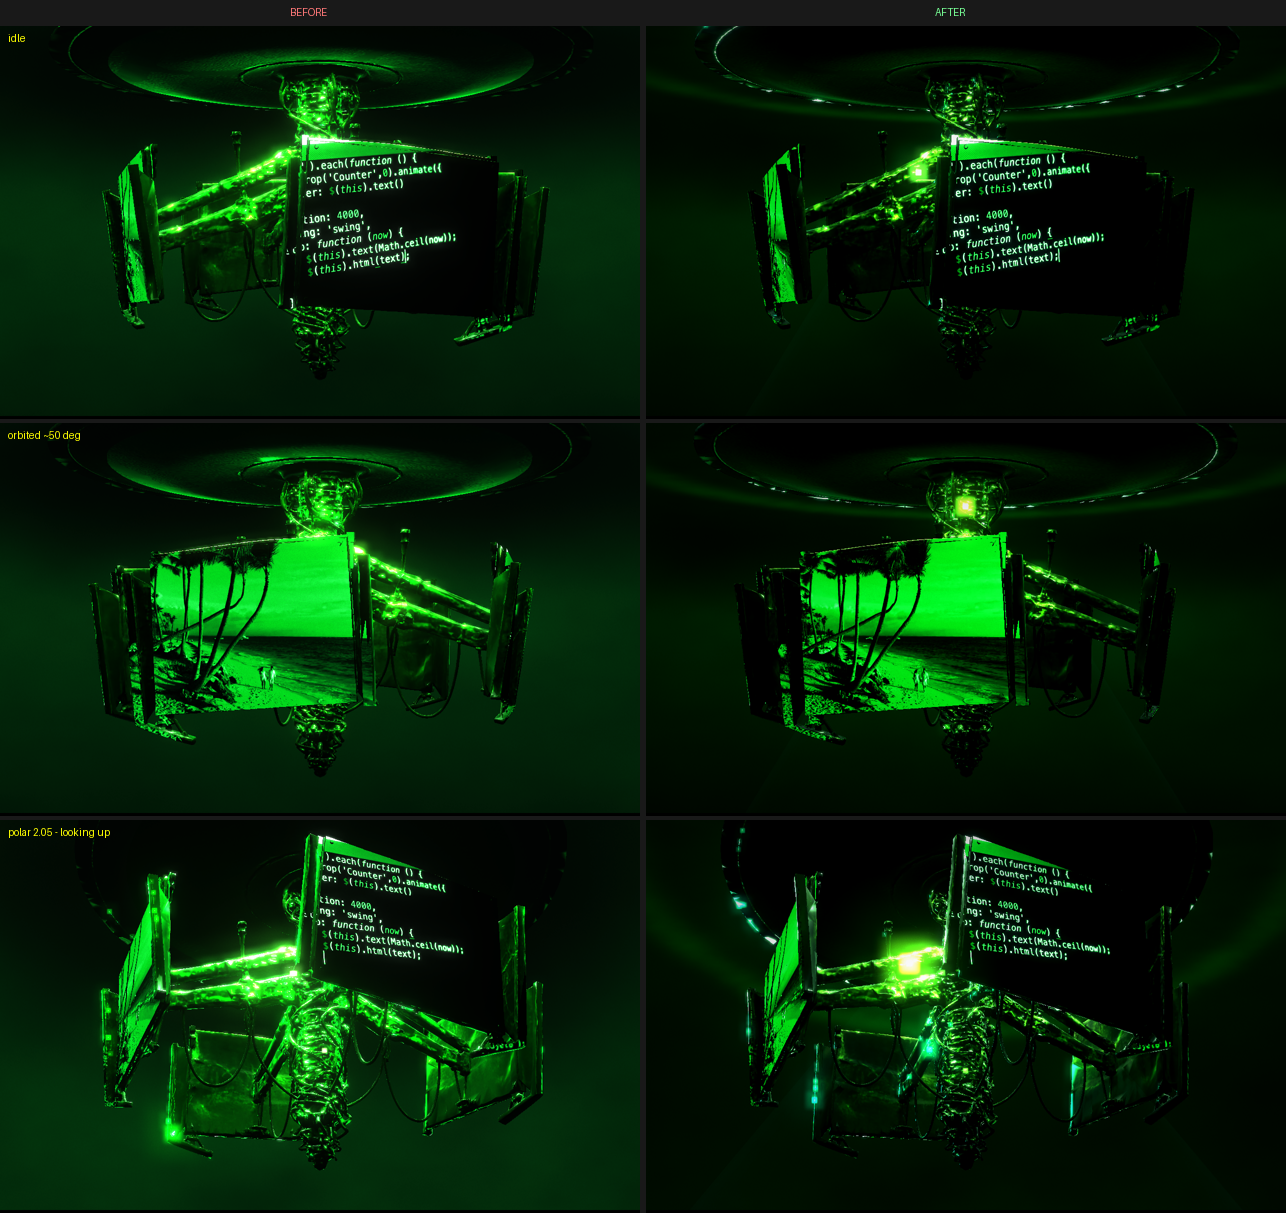
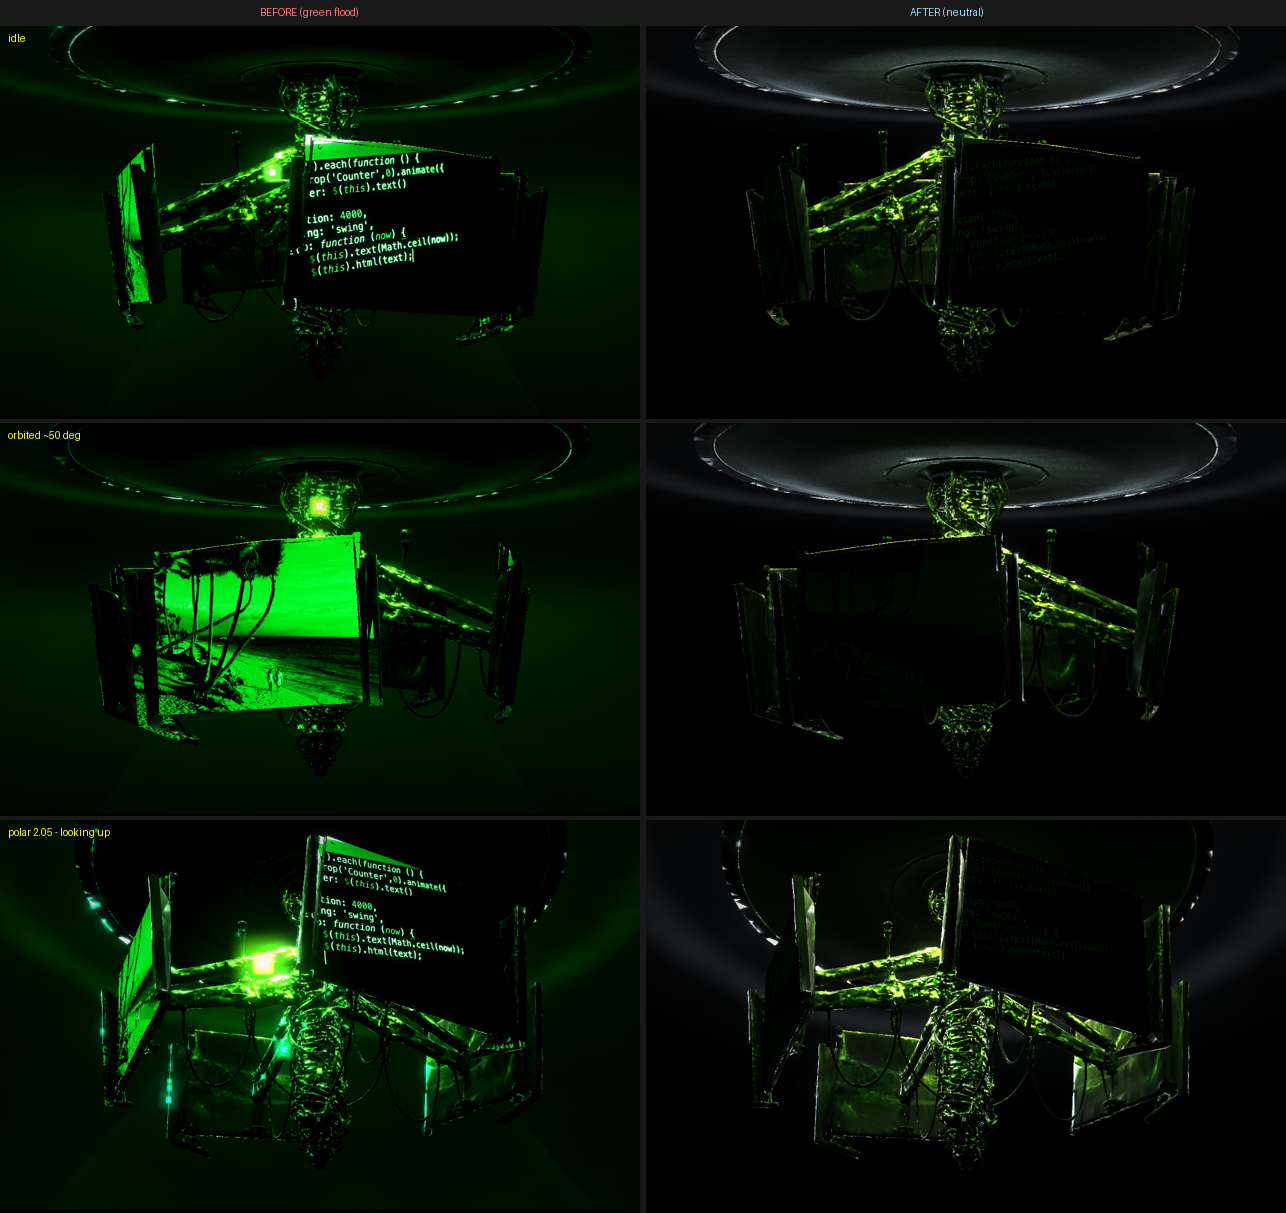
Neutral scene; green lives only in the model's material
Green was being applied in 13 places, only one of which was the model: all four
lights, scene.fog, the backdrop shell, the PMREM env shell, the ceiling dome,
the light shaft, the screen grade, the emissive injection and the grade pass's
split-tone. With a green key on a green material every highlight came back
saturated green, which is why the glass never read as glass.

All of it is neutral now. Lights white (ambient 0x2a2e33 0.42, key 0xfff6ec,
rim 0xdfe9ff 1.25, fill 0xffffff 0.32), fog 0x0e1013 @ 0.055, backdrop
0x0a0b0c -> 0x1a1c1e, ceiling pool 0xd8e2ea, shaft white @ 0.007, grade
split-tone near-neutral @ 0.14, bloom 0.20/0.14/0.90.

Emissive injection deleted -- it was a forced green multiply on top of the
GLB's own PBR.

Env shell is deliberately much brighter than the visible backdrop
(0x24282c -> 0xc2ccd4). It is never drawn, only feeds PMREM; a near-mirror
matched to a dim background has nothing to reflect and goes black.
ENV_INTENSITY 2.5 -> 3.4.

Screens: SCREEN_GAIN 0.26 and ramp drive 1.15 -> 0.62. The drive was the real
culprit -- mid luminance was landing at the top of the tier ramp, so every clip
resolved to flat bright green.

Exposure 0.78 -> 0.95 and GRADE_PIVOT 0.28 -> 0.16: the neutral lights deliver
far less than the green ones did, and the high pivot was crushing the grey
backdrop to black.

No geometry, positions, camera or scroll behaviour touched.

diff --git a/js/hero.js b/js/hero.js
@@ -19,12 +19,16 @@ const ASSETS = window.HERO_ASSETS || {};
 const FINAL = ASSETS.finalDir || 'assets-final/';
 const PLACE = ASSETS.placeholderDir || 'placeholders/';
 
-/* §2 green token system, mirrored into the WebGL side */
-const ACCENT = 0x19e65a;          /* signal accent, floor lines + ring */
-const HOT_CORE = 0xb8ffcc;        /* mint-white hot tier, ring core    */
-const RIM = 0x4dff7a;             /* rim light   (was 0xff4d4d)        */
-const FILL = 0x1aff5e;            /* fill light  (was 0xff1a1a)        */
-const AMBIENT = 0x405a4a;         /* cool green-grey (was 0x404060)    */
+/* PALETTE — neutral.
+   The scene used to tint everything green: lights, fog, backdrop, ceiling, the
+   env map and the screen grade all carried the §2 accent. The result was a
+   colour filter over the viewport rather than a lit object — one hue at one
+   value, and highlights that came back saturated green so the glass never read
+   as glass. Green now comes from exactly one place: the model's own basecolor.
+   Everything that lights it or sits behind it is neutral, so a specular
+   highlight returns white and the material can show its own colour. */
+const NEUTRAL_HI  = 0x1a1c1e;     /* background gradient, light end */
+const NEUTRAL_LO  = 0x0a0b0c;     /* background gradient, dark end  */
 
 /* --------------------------------------------------- RIG NORMALISATION
    Tunables for fitting assets-final/hero-rig.glb into the scene. The model is
@@ -43,7 +47,7 @@ const CEILING_Y       = 0.62;   /* mount plane: the model's bbox top lands exact
    rim) which is the whole reason it is not a flat plane. */
 const CEILING_R       = 70.0;   /* dome radius — flat where the rig mounts, curved at the edges */
 const CEILING_ARC     = 0.145;  /* radians of cap; rim lands at r ~10.1 */
-const FOG_DENSITY     = 0.085;  /* FogExp2; depth separation without hiding the rig */
+const FOG_DENSITY     = 0.055;  /* FogExp2; depth separation without hiding the rig */
 /* height of the dome surface at a given horizontal radius */
 const domeYatRadius = r => CEILING_Y - CEILING_R + Math.sqrt(Math.max(0, CEILING_R * CEILING_R - r * r));
 /* The orbit target is lifted to the machine's own centre and the camera is set
@@ -95,7 +99,7 @@ renderer.setSize(container.clientWidth, container.clientHeight);
    so the §2 palette lands exactly where it did before. */
 renderer.outputColorSpace = THREE.SRGBColorSpace;
 renderer.toneMapping = THREE.ACESFilmicToneMapping;
-renderer.toneMappingExposure = 0.78;   /* down from 1.0 — lets the model read as material, not a flat cutout */
+renderer.toneMappingExposure = 0.95;   /* raised back from 0.78: neutral lights deliver far less than green ones did */
 container.appendChild(renderer.domElement);
 
 /* ---------------------------------------------------------------- LIGHTS
@@ -112,14 +116,18 @@ container.appendChild(renderer.domElement);
                              instead of washing it from the side
                     fill     0.80 -> 0.10 (all but killed — it was the main
                              cause of the even, formless lighting)
-                    rim      1.20 -> 1.70, re-hued from accent-green to cool
-                             teal so the silhouette separates from a green
-                             background instead of blending into it            */
-const SHADOW_TEAL = 0x0d3330;     /* shadows bias cool, never accent-green */
-const KEY_TINT    = 0xdaffe9;     /* mint-white, the §2 hot tier            */
-const RIM_TEAL    = 0x35e8c4;     /* cool separator against the green haze   */
+                    rim      1.20 -> 1.25, and now WHITE — a green rim on a
+                             green model just deepened the single-hue problem  */
+/* White lights, not green ones. A green key on a green material multiplies to
+   a flat saturated green with no specular life; a white key lets the basecolor
+   supply the hue and the highlight come back near-white, which is the whole
+   difference between "tinted" and "wet glass". */
+const SHADOW_TONE = 0x2a2e33;     /* neutral, very slightly cool */
+const KEY_TINT    = 0xfff6ec;     /* white, a hair warm          */
+const RIM_TONE    = 0xdfe9ff;     /* white, a hair cool          */
+const FILL_TONE   = 0xffffff;
 
-scene.add(new THREE.AmbientLight(SHADOW_TEAL, 0.05));
+scene.add(new THREE.AmbientLight(SHADOW_TONE, 0.42));
 
 /* motivated key: it lives AT the mount and points down the machine */
 /* Sits ABOVE the ceiling, not at the mount. With decay 2 a spot placed level
@@ -136,12 +144,12 @@ spotLight.distance = 11;
 scene.add(spotLight, spotLight.target);
 
 /* rim, opposite the idle camera, to lift the silhouette off the haze */
-const rimLight = new THREE.DirectionalLight(RIM_TEAL, 1.7);
+const rimLight = new THREE.DirectionalLight(RIM_TONE, 1.25);
 rimLight.position.set(2.6, 1.3, 2.2);
 scene.add(rimLight);
 
 /* what is left of the fill — just enough that the shadow side is not a hole */
-const fillLight = new THREE.DirectionalLight(FILL, 0.10);
+const fillLight = new THREE.DirectionalLight(FILL_TONE, 0.32);
 fillLight.position.set(-2.2, 0.4, 1.8);
 scene.add(fillLight);
 
@@ -168,14 +176,14 @@ const NOISE_GLSL = `
     return v;
   }`;
 
-scene.fog = new THREE.FogExp2(0x04160c, FOG_DENSITY);
+scene.fog = new THREE.FogExp2(0x0e1013, FOG_DENSITY);   /* neutral grey, no hue */
 {
   const backdrop = new THREE.Mesh(
     new THREE.SphereGeometry(22, 32, 24),
     new THREE.ShaderMaterial({
       side: THREE.BackSide, depthWrite: false,
-      uniforms: { uDeep: { value: new THREE.Color(0x03100a) },
-                  uHaze: { value: new THREE.Color(0x2fbf63) } },
+      uniforms: { uDeep: { value: new THREE.Color(NEUTRAL_LO) },
+                  uHaze: { value: new THREE.Color(NEUTRAL_HI) } },
       vertexShader: `varying vec3 vP;
         void main(){ vP = normalize(position); gl_Position = projectionMatrix * modelViewMatrix * vec4(position,1.0); }`,
       fragmentShader: `uniform vec3 uDeep; uniform vec3 uHaze; varying vec3 vP;
@@ -186,8 +194,10 @@ scene.fog = new THREE.FogExp2(0x04160c, FOG_DENSITY);
           /* a soft bloom of light behind the machine, so it sits IN the haze
              rather than in front of a flat wall of it */
           float core = pow(1.0 - clamp(abs(vP.y) * 1.35, 0.0, 1.0), 2.0);
-          float a = band * (0.30 + 0.70 * drift) + core * 0.34 * (0.5 + 0.5 * drift);
-          gl_FragColor = vec4(mix(uDeep, uHaze, clamp(a, 0.0, 1.0) * 0.55), 1.0);
+          /* biased so the upper-centre actually reaches uHaze — the gradient has
+             to be visible as a gradient, not collapse to the dark end */
+          float a = band * (0.55 + 0.45 * drift) + core * 0.55 * (0.5 + 0.5 * drift);
+          gl_FragColor = vec4(mix(uDeep, uHaze, clamp(a, 0.0, 1.0)), 1.0);
         }`
     })
   );
@@ -215,24 +225,28 @@ scene.fog = new THREE.FogExp2(0x04160c, FOG_DENSITY);
    sampling the env's bright upper hemisphere across its whole face and blowing
    out to a flat green disc. At 2.5 it reads as dark metal with a hot rim, which
    is what gives the top of the frame any form at all. */
-const ENV_INTENSITY = 2.5;
-const EMISSIVE_GAIN = 1.1;     /* how hot the self-lit veins burn */
-const EMISSIVE_GATE = 6.0;     /* higher = only the brightest texture areas glow */
+const ENV_INTENSITY = 3.4;
 {
   const envScene = new THREE.Scene();
   const shell = new THREE.Mesh(
     new THREE.SphereGeometry(12, 32, 24),
     new THREE.ShaderMaterial({
       side: THREE.BackSide,
-      uniforms: { uDeep: { value: new THREE.Color(0x03100a) },
-                  uHaze: { value: new THREE.Color(0x2fbf63) },
-                  uCool: { value: new THREE.Color(0x0e3f4a) } },
+      /* Deliberately far brighter than the visible backdrop. This shell is never
+         drawn — it only feeds PMREM. A near-mirror reflects the environment and
+         almost nothing else, so if the env matches the dim background the metal
+         has nothing to return and goes black. A studio softbox is much brighter
+         than the wall behind the subject; same idea. */
+      uniforms: { uDeep: { value: new THREE.Color(0x24282c) },
+                  uHaze: { value: new THREE.Color(0xc2ccd4) },
+                  uCool: { value: new THREE.Color(0x4a5158) } },
       vertexShader: `varying vec3 vP;
         void main(){ vP = normalize(position); gl_Position = projectionMatrix * modelViewMatrix * vec4(position,1.0); }`,
       fragmentShader: `uniform vec3 uDeep; uniform vec3 uHaze; uniform vec3 uCool; varying vec3 vP;
         void main(){
-          /* same vertical structure as the backdrop, with a cool floor so the
-             underside of the metal picks up teal instead of more green */
+          /* same vertical structure as the backdrop. Neutral throughout: this
+             is what the metal reflects, so any hue here would come straight
+             back as a tinted highlight and kill the glass read. */
           float up = smoothstep(-0.85, 0.85, vP.y);
           vec3 c = mix(mix(uCool, uDeep, smoothstep(-1.0, -0.1, vP.y)), uHaze * 0.62, up);
           gl_FragColor = vec4(c, 1.0);
@@ -276,8 +290,8 @@ const EMISSIVE_GATE = 6.0;     /* higher = only the brightest texture areas glow
     new THREE.SphereGeometry(CEILING_R, 64, 24, 0, Math.PI * 2, 0, CEILING_ARC),
     new THREE.ShaderMaterial({
       side: THREE.DoubleSide, transparent: true, depthWrite: false, fog: false,
-      uniforms: { uCol: { value: new THREE.Color(ACCENT) },
-                  uBase: { value: new THREE.Color(0x0e1b13) },
+      uniforms: { uCol: { value: new THREE.Color(0xd8e2ea) },
+                  uBase: { value: new THREE.Color(0x121417) },
                   uCanopyR: { value: CANOPY_R } },
       vertexShader: `varying float vR; varying vec3 vL;
         void main(){
@@ -296,7 +310,7 @@ const EMISSIVE_GATE = 6.0;     /* higher = only the brightest texture areas glow
           float halo = 1.0 - smoothstep(0.0, uCanopyR * 0.16, abs(vR - uCanopyR));
           float slab = 1.0 - smoothstep(uCanopyR * 1.6, uCanopyR * 5.5, vR);
           float grain = 0.6 + 0.4 * fbm(vec2(atan(vL.z, vL.x) * 3.0, vR * 1.1) * 2.6);
-          vec3 col = uBase + uCol * (0.16 * pool + 0.20 * halo) * grain;
+          vec3 col = uBase + uCol * (0.10 * pool + 0.13 * halo) * grain;
           gl_FragColor = vec4(col, clamp(slab * 0.55 + pool * 0.30 + halo * 0.45, 0.0, 1.0));
         }`
     })
@@ -314,14 +328,14 @@ const EMISSIVE_GATE = 6.0;     /* higher = only the brightest texture areas glow
    gone too far. It is what stops the key light from being invisible: without
    something in the air to catch it, a spot in a dark room only shows where it
    lands, never that it travelled. */
-const SHAFT_OPACITY = 0.020;
+const SHAFT_OPACITY = 0.007;   /* cut hard: against a neutral background the cone started reading as a wedge */
 {
   const shaft = new THREE.Mesh(
     new THREE.ConeGeometry(1.75, 2.9, 48, 1, true),
     new THREE.ShaderMaterial({
       transparent: true, depthWrite: false, side: THREE.DoubleSide,
       blending: THREE.AdditiveBlending, fog: false,
-      uniforms: { uCol: { value: new THREE.Color(KEY_TINT) }, uOp: { value: SHAFT_OPACITY } },
+      uniforms: { uCol: { value: new THREE.Color(0xffffff) }, uOp: { value: SHAFT_OPACITY } },
       vertexShader: `varying vec2 vUv; varying vec3 vN;
         void main(){ vUv = uv; vN = normalize(normalMatrix * normal);
           gl_Position = projectionMatrix * modelViewMatrix * vec4(position,1.0); }`,
@@ -374,20 +388,27 @@ const GREEN_RAMP = `
 /* Screen footage is graded onto the §2 tiers so arbitrary stock clips still
    leave green as the only hue in the viewport. Set HERO_ASSETS.screenGrade
    to 0 for raw footage colour. */
+/* SCREEN_GAIN is what stops the panels leading the frame. They were rendering
+   at full value and dominating everything; they are panels in a dark room, not
+   light sources. The ramp drive is pulled down too (1.15 -> 0.62) so mid
+   luminance lands in the ramp's dark tiers instead of at the top — that top-end
+   landing was what crushed every clip to the same flat bright green. */
+const SCREEN_GAIN = { value: 0.26 };
 const uGrade = { value: ASSETS.screenGrade ?? 1 };
 function screenMaterial(tex) {
-  /* fog:false — the screens are emissive panels, and hazing them would eat the
-     contrast that makes the on-screen text readable */
+  /* fog:false — hazing the panels would eat the contrast that keeps their
+     content legible at this brightness */
   const m = new THREE.MeshBasicMaterial({ map: tex, side: THREE.DoubleSide, toneMapped: false, fog: false });
   m.onBeforeCompile = shader => {
     shader.uniforms.uGrade = uGrade;
-    shader.fragmentShader = `uniform float uGrade;\n${GREEN_RAMP}\n` + shader.fragmentShader.replace(
+    shader.uniforms.uGain = SCREEN_GAIN;
+    shader.fragmentShader = `uniform float uGrade; uniform float uGain;\n${GREEN_RAMP}\n` + shader.fragmentShader.replace(
       '#include <map_fragment>',
       `#include <map_fragment>
        {
          float l = pow(clamp(dot(diffuseColor.rgb, vec3(0.2126,0.7152,0.0722)), 0.0, 1.0), 1.0 / 2.2);
-         vec3 graded = pow(greenRamp(clamp(l * 1.15, 0.0, 1.0)), vec3(2.2));
-         diffuseColor.rgb = mix(diffuseColor.rgb, graded, uGrade);
+         vec3 graded = pow(greenRamp(clamp(l * 0.62, 0.0, 1.0)), vec3(2.2));
+         diffuseColor.rgb = mix(diffuseColor.rgb, graded, uGrade) * uGain;
        }`
     );
   };
@@ -614,25 +635,16 @@ new GLTFLoader().setMeshoptDecoder(MeshoptDecoder).load(
        of "green statue". There is no separate emissive map, so the brightest
        parts of the basecolor become the emitter: luminance raised to a power so
        only the top of the range survives, then pushed through the §2 accent.
-       EMISSIVE_GAIN scales it, EMISSIVE_GATE decides how selective it is. */
+       (Removed — see the note at the material below.) */
     const maxAniso = renderer.capabilities.getMaxAnisotropy();
     let glbMesh = null;
     model.traverse(o => {
       if (!o.isMesh || !o.material) return;
       o.material.envMapIntensity = ENV_INTENSITY;
-      o.material.onBeforeCompile = sh => {
-        sh.uniforms.uEmGain = { value: EMISSIVE_GAIN };
-        sh.uniforms.uEmGate = { value: EMISSIVE_GATE };
-        sh.uniforms.uEmCol = { value: new THREE.Color(ACCENT) };
-        sh.fragmentShader = 'uniform float uEmGain; uniform float uEmGate; uniform vec3 uEmCol;\n'
-          + sh.fragmentShader.replace('#include <emissivemap_fragment>',
-            `#include <emissivemap_fragment>
-             {
-               float lum = dot(diffuseColor.rgb, vec3(0.2126, 0.7152, 0.0722));
-               float vein = pow(clamp(lum, 0.0, 1.0), uEmGate);
-               totalEmissiveRadiance += uEmCol * vein * uEmGain;
-             }`);
-      };
+      /* No emissive injection. It was pushing the basecolor through the accent
+         and adding a forced green glow on top of the GLB's own PBR — exactly
+         the "green multiply" that flattened the material. The maps are left to
+         speak for themselves. */
       o.material.needsUpdate = true;
       for (const k of ['map', 'normalMap', 'roughnessMap', 'metalnessMap']) {
         if (o.material[k]) { o.material[k].anisotropy = maxAniso; o.material[k].needsUpdate = true; }
@@ -791,9 +803,9 @@ composer.addPass(new RenderPass(scene, camera));
    device pixels to match the real pixel ratio. */
 const bloomPass = new UnrealBloomPass(
   new THREE.Vector2(container.clientWidth * heroPixelRatio(), container.clientHeight * heroPixelRatio()),
-  0.45,   /* strength  — was 0.8  */
-  0.18,   /* radius    — was 0.6, tight so it never softens an edge */
-  0.72);  /* threshold — was 0.2; only genuine highlights bloom now */
+  0.20,   /* strength  — was 0.45 */
+  0.14,   /* radius    — tight so it never softens an edge */
+  0.90);  /* threshold — only the specular hotspots bloom, nothing else */
 composer.addPass(bloomPass);
 /* Grain kept at a whisper, scanlines off entirely (they were the crawl). Set
    FILM_STRENGTH to 0 to drop the pass's contribution completely. */
@@ -811,11 +823,13 @@ composer.addPass(filmPass);
        near-black without crushing the screens.
      - a vignette, to stop the corners competing with the centre.
    GRADE_* below are the only knobs; none of them soften an edge. */
-const GRADE_SHADOW   = new THREE.Color(0x6fd8ff);  /* cool bias applied in the darks */
-const GRADE_HIGH     = new THREE.Color(0xd6ffe4);  /* mint, reserved for real highlights */
-const GRADE_CONTRAST = 1.16;
-const GRADE_PIVOT    = 0.28;
-const GRADE_VIGNETTE = 0.55;
+/* Near-neutral. The old teal/mint split-tone was re-introducing hue into a
+   frame that is now meant to be neutral except for the model. */
+const GRADE_SHADOW   = new THREE.Color(0xa9b6c4);  /* a whisper cool in the darks */
+const GRADE_HIGH     = new THREE.Color(0xffffff);  /* highlights stay white       */
+const GRADE_CONTRAST = 1.06;
+const GRADE_PIVOT    = 0.16;   /* low pivot was crushing the grey backdrop to black */
+const GRADE_VIGNETTE = 0.42;
 const gradePass = new ShaderPass({
   uniforms: {
     tDiffuse: { value: null },
@@ -834,7 +848,7 @@ const gradePass = new ShaderPass({
       /* split-tone: darks toward teal, lights toward mint */
       float t = smoothstep(0.02, 0.55, l);
       vec3 tint = mix(uShadow, uHigh, t);
-      c.rgb *= mix(vec3(1.0), tint, 0.42);
+      c.rgb *= mix(vec3(1.0), tint, 0.14);
 
       /* contrast about a low pivot — deepens shadows, leaves highlights alone */
       c.rgb = clamp((c.rgb - uPivot) * uContrast + uPivot, 0.0, 1.0);
@@ -941,6 +955,7 @@ if (TUNE) {
   window.__film = filmPass;      /* .enabled = false to preview with no grain */
   window.__bloom = bloomPass;
   window.__grade = gradePass;
+  window.__screenGain = SCREEN_GAIN;
   window.__spot = spotLight;
   window.__rim = rimLight;
   console.log('[tune] on — __screens/__rig/__rigBody/__cam/__controls/__renderer/__film/__bloom');

diff --git a/DECISIONS.md b/DECISIONS.md
@@ -507,3 +507,61 @@ The ceiling itself is untouched, which was the constraint — the clamp was move
 to fit it, not the other way round. Verified by driving real drags through the
 browser: 1.60 -> 1.38 dragging one way, 1.60 -> 2.15 the other, and all three
 positions rendered to confirm the dome holds at both limits.
+
+## 7.10 · Neutral scene, green only in the material
+
+Matched to a client reference: a Blender-viewport render of the raw GLB on a
+plain grey backdrop. The complaint was that the build read as a colour filter
+over the viewport rather than as a lit object, and it was correct — green was
+being applied in **thirteen** places, only one of which was the model:
+
+lights (ambient / key / rim / fill), `scene.fog`, the backdrop shell, the PMREM
+env shell, the ceiling dome, the light shaft, the screen grade, the emissive
+injection, and the grade pass's split-tone. With a green key on a green
+material every highlight came back saturated green, which is exactly why the
+glass never read as glass — a specular highlight has to return the colour of
+the *light*, not of the surface.
+
+So: everything that lights the model or sits behind it is now neutral, and the
+only hue left in the frame comes from the GLB's own basecolor.
+
+| | before | after |
+|---|---|---|
+| ambient | `0x0d3330` 0.05 | `0x2a2e33` 0.42 |
+| key spot | `0xdaffe9` | `0xfff6ec` (white, a hair warm) |
+| rim | `0x35e8c4` 1.70 | `0xdfe9ff` 1.25 |
+| fill | `0x1aff5e` 0.10 | `0xffffff` 0.32 |
+| fog | `0x04160c` @ 0.085 | `0x0e1013` @ 0.055 |
+| backdrop | `0x03100a` → `0x2fbf63` | `0x0a0b0c` → `0x1a1c1e` |
+| ceiling pool | `ACCENT` | `0xd8e2ea` |
+| light shaft | `KEY_TINT` @ 0.020 | white @ 0.007 |
+| grade split-tone | teal/mint @ 0.42 | near-neutral @ 0.14 |
+| bloom | 0.45 / 0.18 / 0.72 | 0.20 / 0.14 / 0.90 |
+| exposure | 0.78 | 0.95 |
+
+**The emissive injection was deleted outright.** It pushed the basecolor through
+the accent and added a forced green glow on top of the GLB's own PBR — the
+"green multiply" that flattened the material. The maps now speak for themselves.
+
+**The env shell is deliberately much brighter than the visible backdrop**
+(`0x24282c` → `0xc2ccd4`, against a backdrop of `0x0a0b0c` → `0x1a1c1e`). It is
+never drawn; it only feeds PMREM. A near-mirror reflects the environment and
+almost nothing else, so an env matched to the dim background leaves the metal
+with nothing to return and it goes black — which is exactly what happened on the
+first neutral pass. A studio softbox is far brighter than the wall behind the
+subject; same principle. `ENV_INTENSITY` 2.5 -> 3.4 against the new shell.
+
+**Screens sit back now.** `SCREEN_GAIN` 0.26 plus the ramp drive pulled from
+1.15 to 0.62. The drive was the real culprit: at 1.15 mid luminance landed at
+the *top* of the tier ramp, so every clip resolved to the same flat bright
+green and the panels led the frame. At 0.62 they land in the dark tiers and
+read as filament detail on near-black panels.
+
+**Exposure went UP, not down**, 0.78 -> 0.95. Counter-intuitive against a brief
+asking for deeper shadows, but the green lights had been delivering far more
+energy than the neutral ones do; at 0.78 the neutral pass was nearly black.
+Depth comes from the grade's contrast curve and vignette instead, and
+`GRADE_PIVOT` moved 0.28 -> 0.16 because the higher pivot was crushing the grey
+backdrop gradient to black — the background has to be visible as a gradient.
+
+No geometry, position, camera or scroll behaviour was touched.
